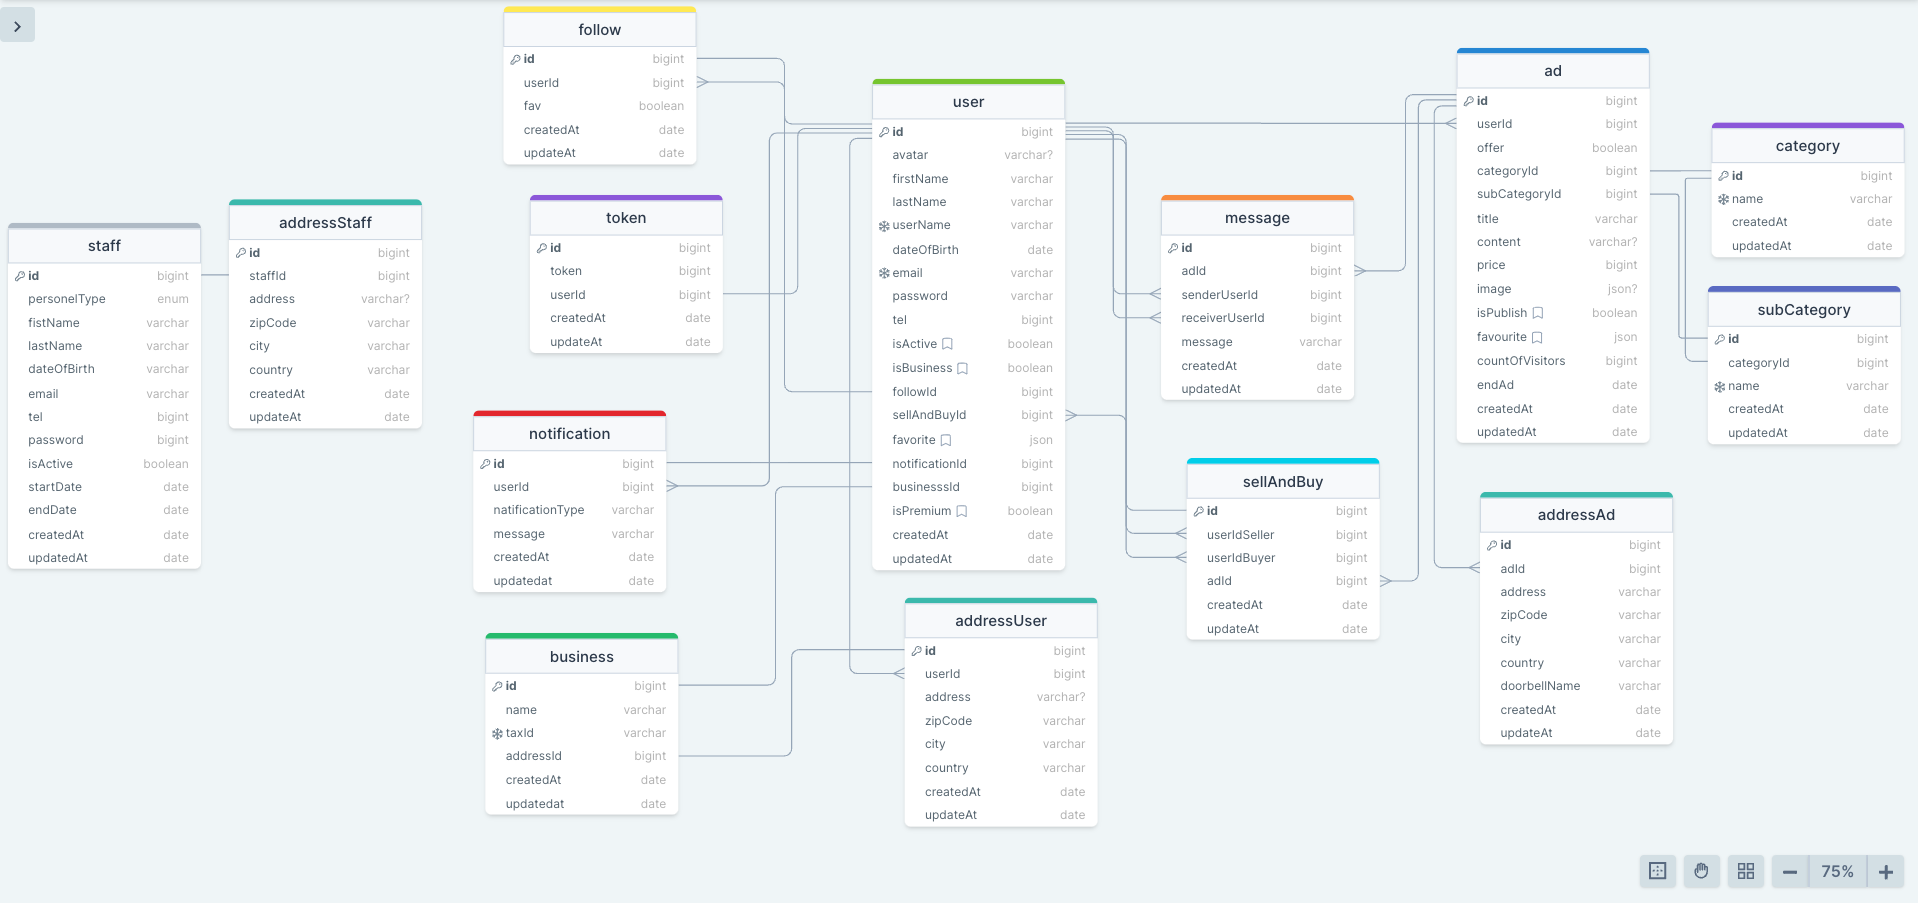
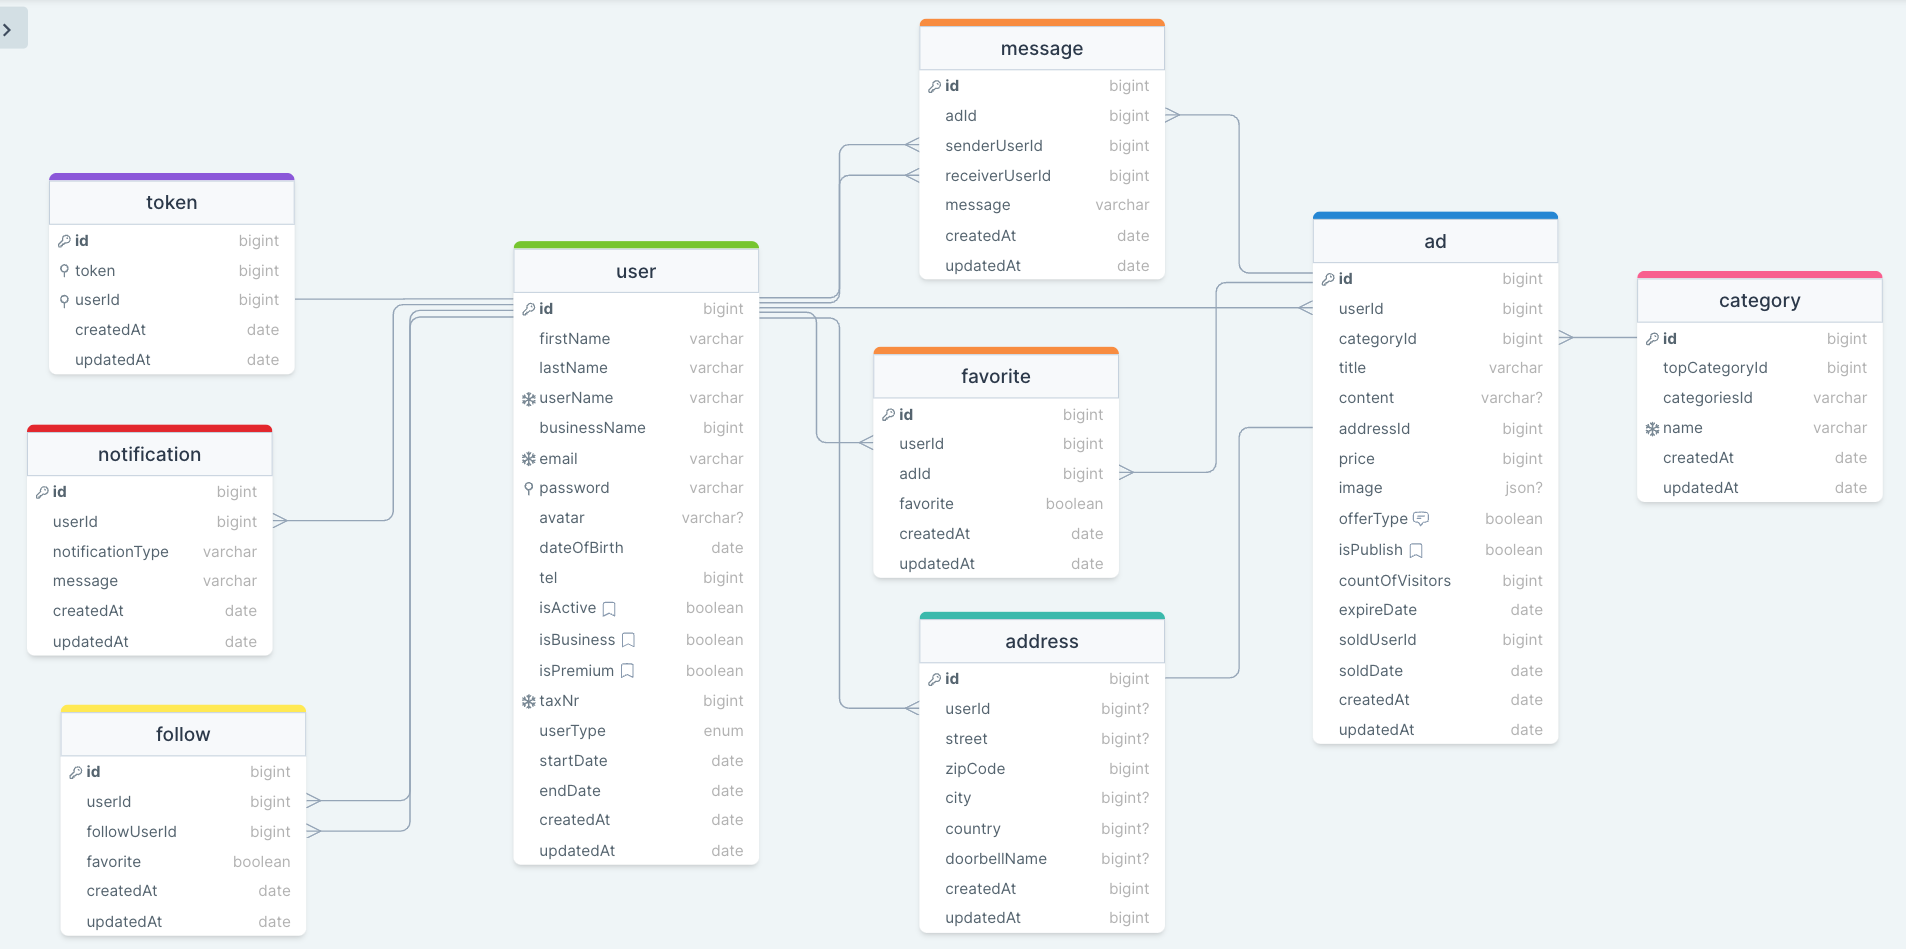
starter folders updated

diff --git a/Backend/src/controllers/notification.js b/Backend/src/controllers/notification.js
@@ -1,0 +1,25 @@
+"use strict";
+/* --------------------------------------------------------------------------
+    * NODEJS EXPRESS | Keller Store
+----------------------------------------------------------------------------- */
+//? Requaring
+
+/* -------------------------------------------------------------------------- */
+//? Notification Controller:
+module.exports = {
+  //! GET
+  list: async (req, res) => {},
+
+  //* CRUD Processes:
+  //! POST
+  create: async (req, res) => {},
+
+  //! /:id -> GET
+  read: async (req, res) => {},
+
+  //! /:id -> PUT / PATCH
+  update: async (req, res) => {},
+
+  //! /:id -> DELETE
+  delete: async (req, res) => {},
+};

diff --git a/Backend/src/controllers/category.js b/Backend/src/controllers/category.js
@@ -1,0 +1,25 @@
+"use strict";
+/* --------------------------------------------------------------------------
+    * NODEJS EXPRESS | Keller Store
+----------------------------------------------------------------------------- */
+//? Requaring
+
+/* -------------------------------------------------------------------------- */
+//? Category Controller:
+module.exports = {
+  //! GET
+  list: async (req, res) => {},
+
+  //* CRUD Processes:
+  //! POST
+  create: async (req, res) => {},
+
+  //! /:id -> GET
+  read: async (req, res) => {},
+
+  //! /:id -> PUT / PATCH
+  update: async (req, res) => {},
+
+  //! /:id -> DELETE
+  delete: async (req, res) => {},
+};

diff --git a/Backend/src/controllers/favorite.js b/Backend/src/controllers/favorite.js
@@ -1,0 +1,25 @@
+"use strict";
+/* --------------------------------------------------------------------------
+    * NODEJS EXPRESS | Keller Store
+----------------------------------------------------------------------------- */
+//? Requaring
+
+/* -------------------------------------------------------------------------- */
+//? Favorite Controller:
+module.exports = {
+  //! GET
+  list: async (req, res) => {},
+
+  //* CRUD Processes:
+  //! POST
+  create: async (req, res) => {},
+
+  //! /:id -> GET
+  read: async (req, res) => {},
+
+  //! /:id -> PUT / PATCH
+  update: async (req, res) => {},
+
+  //! /:id -> DELETE
+  delete: async (req, res) => {},
+};

diff --git a/Backend/src/controllers/address.js b/Backend/src/controllers/address.js
@@ -1,0 +1,25 @@
+"use strict";
+/* --------------------------------------------------------------------------
+    * NODEJS EXPRESS | Keller Store
+----------------------------------------------------------------------------- */
+//? Requaring
+
+/* -------------------------------------------------------------------------- */
+//? Address Controller:
+module.exports = {
+  //! GET
+  list: async (req, res) => {},
+
+  //* CRUD Processes:
+  //! POST
+  create: async (req, res) => {},
+
+  //! /:id -> GET
+  read: async (req, res) => {},
+
+  //! /:id -> PUT / PATCH
+  update: async (req, res) => {},
+
+  //! /:id -> DELETE
+  delete: async (req, res) => {},
+};

diff --git a/Backend/src/controllers/message.js b/Backend/src/controllers/message.js
@@ -1,0 +1,25 @@
+"use strict";
+/* --------------------------------------------------------------------------
+    * NODEJS EXPRESS | Keller Store
+----------------------------------------------------------------------------- */
+//? Requaring
+
+/* -------------------------------------------------------------------------- */
+//? Message Controller:
+module.exports = {
+  //! GET
+  list: async (req, res) => {},
+
+  //* CRUD Processes:
+  //! POST
+  create: async (req, res) => {},
+
+  //! /:id -> GET
+  read: async (req, res) => {},
+
+  //! /:id -> PUT / PATCH
+  update: async (req, res) => {},
+
+  //! /:id -> DELETE
+  delete: async (req, res) => {},
+};

diff --git a/Backend/src/controllers/follow.js b/Backend/src/controllers/follow.js
@@ -1,0 +1,25 @@
+"use strict";
+/* --------------------------------------------------------------------------
+    * NODEJS EXPRESS | Keller Store
+----------------------------------------------------------------------------- */
+//? Requaring
+
+/* -------------------------------------------------------------------------- */
+//? Follow Controller:
+module.exports = {
+  //! GET
+  list: async (req, res) => {},
+
+  //* CRUD Processes:
+  //! POST
+  create: async (req, res) => {},
+
+  //! /:id -> GET
+  read: async (req, res) => {},
+
+  //! /:id -> PUT / PATCH
+  update: async (req, res) => {},
+
+  //! /:id -> DELETE
+  delete: async (req, res) => {},
+};

diff --git a/Backend/src/controllers/ad.js b/Backend/src/controllers/ad.js
@@ -1,0 +1,25 @@
+"use strict";
+/* --------------------------------------------------------------------------
+    * NODEJS EXPRESS | Keller Store
+----------------------------------------------------------------------------- */
+//? Requaring
+
+/* -------------------------------------------------------------------------- */
+//? Ad Controller:
+module.exports = {
+  //! GET
+  list: async (req, res) => {},
+
+  //* CRUD Processes:
+  //! POST
+  create: async (req, res) => {},
+
+  //! /:id -> GET
+  read: async (req, res) => {},
+
+  //! /:id -> PUT / PATCH
+  update: async (req, res) => {},
+
+  //! /:id -> DELETE
+  delete: async (req, res) => {},
+};

diff --git a/Backend/readme.md b/Backend/readme.md
@@ -13,7 +13,14 @@
             dbConnection.js
             swagger.json
         controllers/
+            ad.js
+            address.js
             auth.js
+            category.js
+            favorite.js
+            follow.js
+            message.js
+            notification.js
             token.js
             user.js
         helpers/
@@ -29,24 +36,15 @@
             permissions.js
             upload.js
         models/
-            ad/
-                ad.js
-                addressAd.js
-            category/
-                category.js
-                subCategory.js
-            staff/
-                addressStaff.js
-                staff.js
-            user/
-                addressUser.js
-                user.js
-            business.js
+            ad.js
+            address.js
+            category.js
+            favorite.js
             follow.js
             message.js
             notification.js
-            sellAndBuy.js
             token.js
+            user.js
         routes/
             auth.js
             document.js
